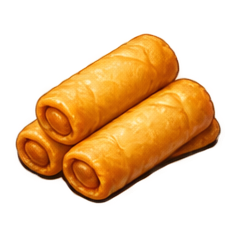
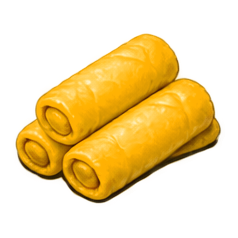
Country food: make yellow dishes read as yellow, lighter blocked tint
Fried chicken, spring rolls and tempura were orange-brown and looked like
the red dishes on the board. They are warmed to golden yellow, and dishes
that cannot be picked yet are dimmed less so their colours stay clear.

diff --git a/Assets/Project Data/Game/Scripts/Level/CountryFood/CountryFoodArt.cs b/Assets/Project Data/Game/Scripts/Level/CountryFood/CountryFoodArt.cs
@@ -20,7 +20,7 @@ namespace Watermelon.BusStop
         [Tooltip("Dish size relative to the tile footprint (the character tap collider).")]
         public float sizeMultiplier = 1.35f;
         [Tooltip("Tint of dishes that cannot be picked yet (the donut outline did this before).")]
-        public Color blockedTint = new Color(0.72f, 0.72f, 0.72f, 1f);
+        public Color blockedTint = new Color(0.86f, 0.86f, 0.86f, 1f);
         [Range(0f, 1f)] public float shadowAlpha = 0.35f;
         [Tooltip("Opacity of the ring in the food's colour under each dish; 0 hides it.")]
         [Range(0f, 1f)] public float ringAlpha = 0f;

diff --git a/Assets/Project Data/Game/Scripts/Level/CountryFood/CountryFoodVisual.cs b/Assets/Project Data/Game/Scripts/Level/CountryFood/CountryFoodVisual.cs
@@ -117,7 +117,7 @@ namespace Watermelon.BusStop
             SetWorldScale(card, scale);
 
             CountryFoodArt art = CountryFood.Art;
-            Color blocked = art != null ? art.blockedTint : new Color(0.72f, 0.72f, 0.72f, 1f);
+            Color blocked = art != null ? art.blockedTint : new Color(0.86f, 0.86f, 0.86f, 1f);
             dishRenderer.color = character.IsHighlighted || character.IsSubmitted ? Color.white : blocked;
         }
 
